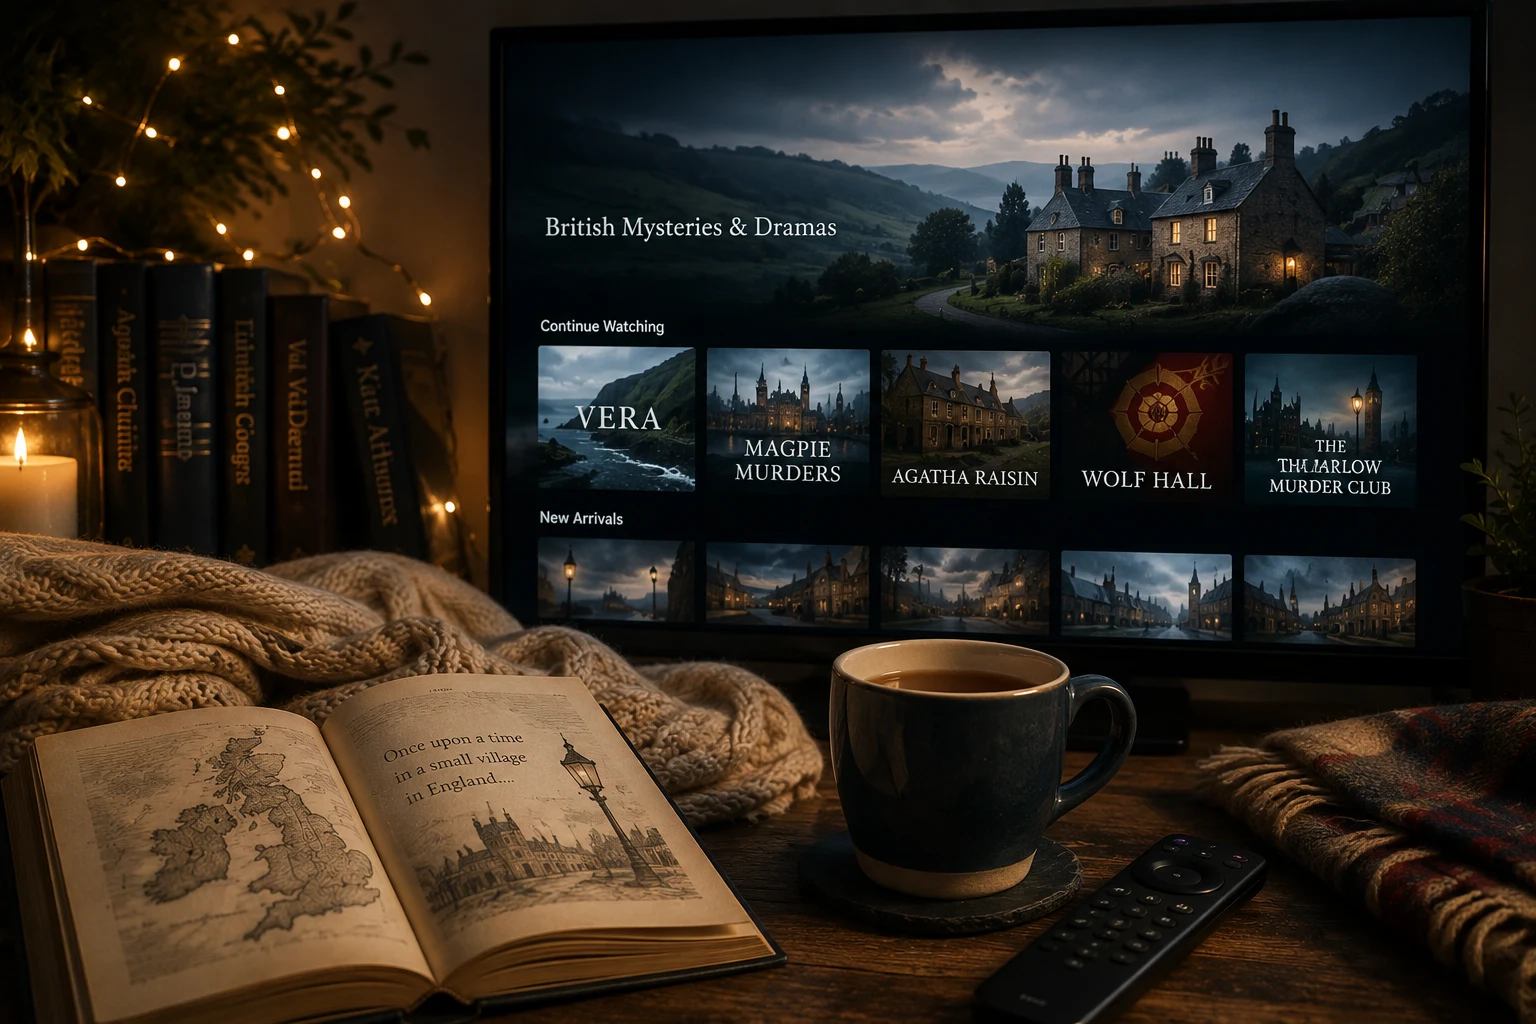
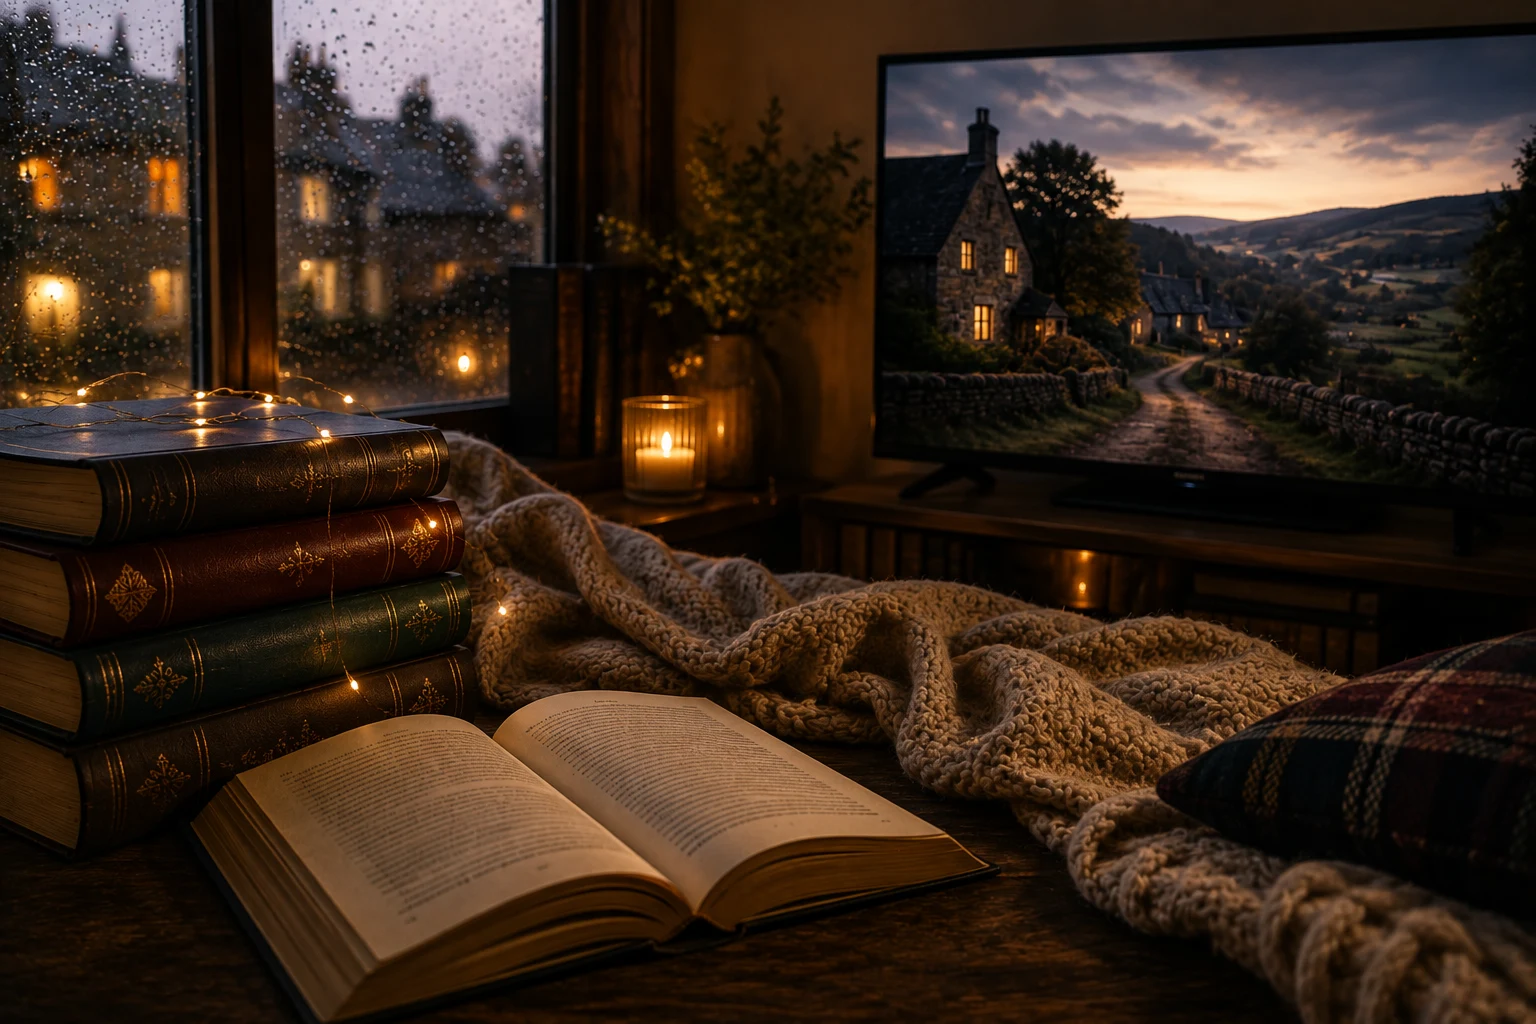
Update Page to Screen hero image; swap in all 9 real amzn.to book links, closing out the generic-fallback backlog on this page

diff --git a/page-to-screen.html b/page-to-screen.html
@@ -1156,7 +1156,7 @@ document.addEventListener('click', function(e){
   </div>
 </div>
 <div style="position:relative;overflow:hidden;min-height:400px;display:flex;align-items:center;border-bottom:1px solid rgba(201,168,76,0.15);">
-  <img src="/page-to-screen-hero.webp" alt="A cozy reading nook with an open storybook, a mug of tea, and a TV displaying a British Mysteries and Dramas streaming menu featuring Vera, Magpie Murders, Agatha Raisin, Wolf Hall, and The Marlow Murder Club" style="position:absolute;right:0;top:0;width:55%;height:100%;object-fit:cover;object-position:center;filter:brightness(1.05);">
+  <img src="/page-to-screen-hero.webp" alt="A stack of leather-bound books and an open novel beside a rain-streaked window, with a TV in the background showing a British village at dusk" style="position:absolute;right:0;top:0;width:55%;height:100%;object-fit:cover;object-position:center;filter:brightness(1.05);">
   <div style="position:absolute;inset:0;background:linear-gradient(to right,#1a2332 40%,rgba(26,35,50,0.75) 60%,rgba(26,35,50,0.05) 100%);"></div>
   <div style="position:relative;z-index:2;padding:56px 40px 40px;max-width:620px;">
     <div class="hero-eyebrow">Guides &middot; Books</div>
@@ -1197,7 +1197,7 @@ document.addEventListener('click', function(e){
       <div class="show-aside">
         <div class="aside-label">At a Glance</div>
         <a href="https://www.amazon.com/gp/video/channel/c984b526-fff5-46bf-af6d-68abb4a6a5d2?tag=britishtvhub-20" class="aside-link">Watch on BritBox &rarr;</a>
-        <a href="https://www.amazon.com/s?k=the+Vera+Stanhope+novels&tag=britishtvhub-20" class="aside-link-secondary">Buy the Book &rarr;</a>
+        <a href="https://amzn.to/4yWxhAP" class="aside-link-secondary">Buy the Book &rarr;</a>
       </div>
     </div>
   </div>
@@ -1216,7 +1216,7 @@ document.addEventListener('click', function(e){
       <div class="show-aside">
         <div class="aside-label">At a Glance</div>
         <a href="https://www.pbs.org/wgbh/masterpiece/" class="aside-link">Watch on PBS Masterpiece &rarr;</a>
-        <a href="https://www.amazon.com/s?k=The+Marlow+Murder+Club&tag=britishtvhub-20" class="aside-link-secondary">Buy the Book &rarr;</a>
+        <a href="https://amzn.to/4f0aagP" class="aside-link-secondary">Buy the Book &rarr;</a>
       </div>
     </div>
   </div>
@@ -1235,7 +1235,7 @@ document.addEventListener('click', function(e){
       <div class="show-aside">
         <div class="aside-label">At a Glance</div>
         <a href="https://www.pbs.org/wgbh/masterpiece/" class="aside-link">Watch on PBS Masterpiece &rarr;</a>
-        <a href="https://www.amazon.com/s?k=Magpie+Murders&tag=britishtvhub-20" class="aside-link-secondary">Buy the Book &rarr;</a>
+        <a href="https://amzn.to/4gFXMUF" class="aside-link-secondary">Buy the Book &rarr;</a>
       </div>
     </div>
   </div>
@@ -1254,7 +1254,7 @@ document.addEventListener('click', function(e){
       <div class="show-aside">
         <div class="aside-label">At a Glance</div>
         <a href="https://www.pbs.org/wgbh/masterpiece/" class="aside-link">Watch on PBS Masterpiece &rarr;</a>
-        <a href="https://www.amazon.com/s?k=Wolf+Hall&tag=britishtvhub-20" class="aside-link-secondary">Buy the Book &rarr;</a>
+        <a href="https://amzn.to/4heymOb" class="aside-link-secondary">Buy the Book &rarr;</a>
       </div>
     </div>
   </div>
@@ -1273,7 +1273,7 @@ document.addEventListener('click', function(e){
       <div class="show-aside">
         <div class="aside-label">At a Glance</div>
         <a href="https://www.amazon.com/gp/video/channel/c8382769-b3fd-49e8-818c-021154583c89?tag=britishtvhub-20" class="aside-link">Watch on Acorn TV &rarr;</a>
-        <a href="https://www.amazon.com/s?k=The+Killings+at+Badgers+Drift&tag=britishtvhub-20" class="aside-link-secondary">Buy the Book &rarr;</a>
+        <a href="https://amzn.to/4hfwNQ2" class="aside-link-secondary">Buy the Book &rarr;</a>
       </div>
     </div>
   </div>
@@ -1292,7 +1292,7 @@ document.addEventListener('click', function(e){
       <div class="show-aside">
         <div class="aside-label">At a Glance</div>
         <a href="https://www.amazon.com/gp/video/channel/c984b526-fff5-46bf-af6d-68abb4a6a5d2?tag=britishtvhub-20" class="aside-link">Watch on BritBox &rarr;</a>
-        <a href="https://www.amazon.com/s?k=The+Murder+of+Roger+Ackroyd&tag=britishtvhub-20" class="aside-link-secondary">Buy the Book &rarr;</a>
+        <a href="https://amzn.to/4yPiDv8" class="aside-link-secondary">Buy the Book &rarr;</a>
       </div>
     </div>
   </div>
@@ -1311,7 +1311,7 @@ document.addEventListener('click', function(e){
       <div class="show-aside">
         <div class="aside-label">At a Glance</div>
         <a href="https://www.pbs.org/wgbh/masterpiece/" class="aside-link">Watch on PBS Masterpiece &rarr;</a>
-        <a href="https://www.amazon.com/s?k=The+Forsyte+Saga&tag=britishtvhub-20" class="aside-link-secondary">Buy the Book &rarr;</a>
+        <a href="https://amzn.to/4wGrvle" class="aside-link-secondary">Buy the Book &rarr;</a>
       </div>
     </div>
   </div>
@@ -1330,7 +1330,7 @@ document.addEventListener('click', function(e){
       <div class="show-aside">
         <div class="aside-label">At a Glance</div>
         <a href="https://www.amazon.com/gp/video/channel/c8382769-b3fd-49e8-818c-021154583c89?tag=britishtvhub-20" class="aside-link">Watch on Acorn TV &rarr;</a>
-        <a href="https://www.amazon.com/s?k=the+Agatha+Raisin+novels&tag=britishtvhub-20" class="aside-link-secondary">Buy the Book &rarr;</a>
+        <a href="https://amzn.to/4bxyLHH" class="aside-link-secondary">Buy the Book &rarr;</a>
       </div>
     </div>
   </div>
@@ -1349,7 +1349,7 @@ document.addEventListener('click', function(e){
       <div class="show-aside">
         <div class="aside-label">At a Glance</div>
         <a href="https://www.amazon.com/gp/video/channel/c984b526-fff5-46bf-af6d-68abb4a6a5d2?tag=britishtvhub-20" class="aside-link">Watch on BritBox &rarr;</a>
-        <a href="https://www.amazon.com/s?k=Life+After+Life&tag=britishtvhub-20" class="aside-link-secondary">Buy the Book &rarr;</a>
+        <a href="https://amzn.to/45C9PLM" class="aside-link-secondary">Buy the Book &rarr;</a>
       </div>
     </div>
   </div>
